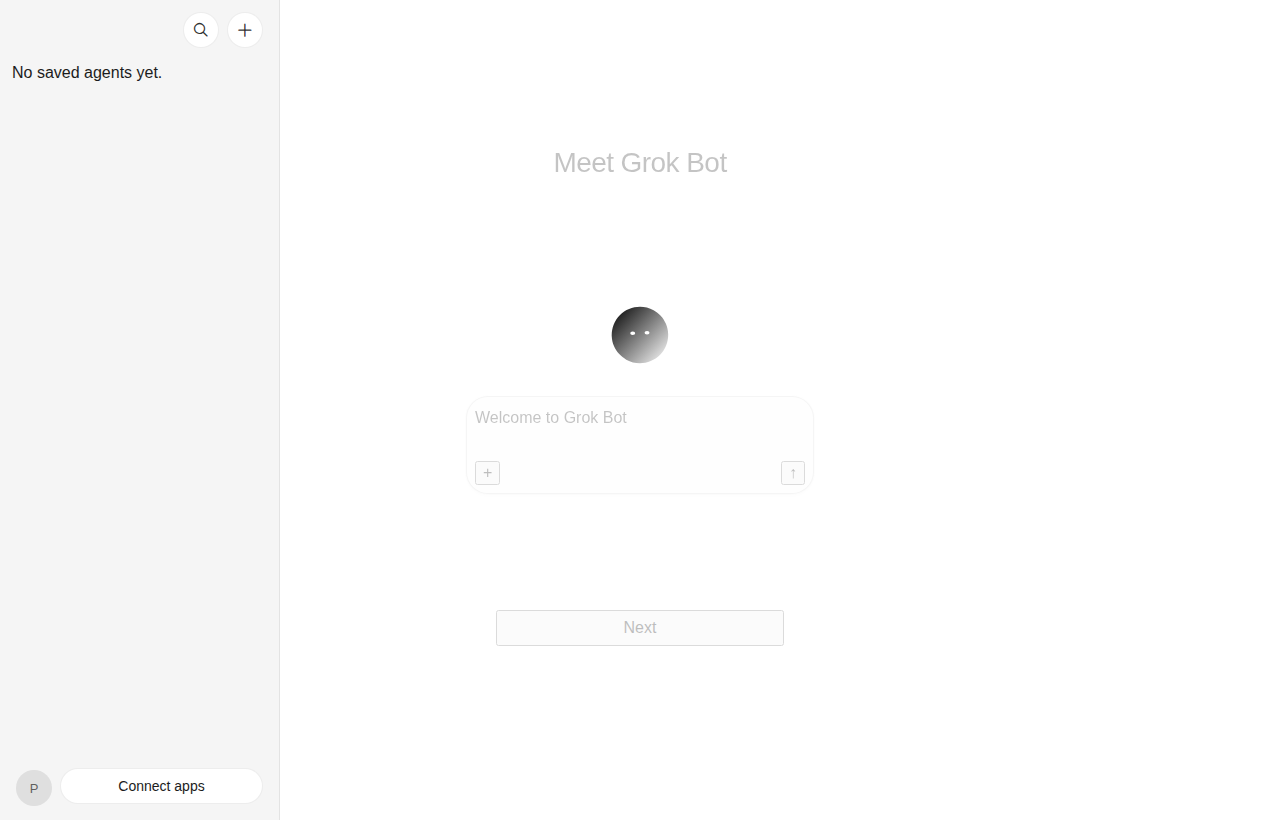
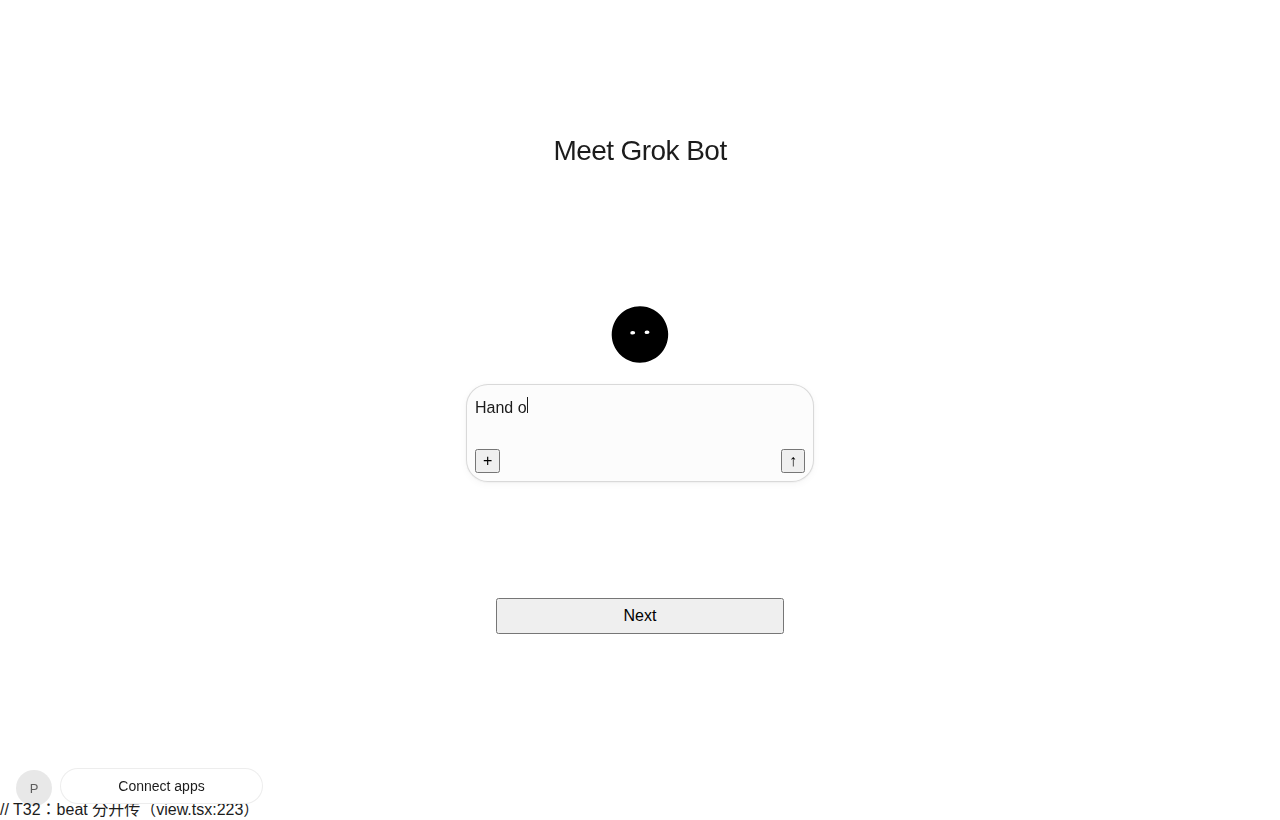
docs(receipt): T32 回执回仓+12 页截图

diff --git a/work/tickets/receipts/T32.md b/work/tickets/receipts/T32.md
@@ -1,0 +1,37 @@
+# T32 回执 · 编舞+版心（feat/T32 @ /tmp/bot-w32，HEAD 见 git log）
+
+## 实现（范围 1 四项+断言）
+1a. SCENE_AS 替内联三元；SceneCast 三 beat 分开传（view.tsx:223 同款）
+1b. 退场动画：exitingStep+transition 统一换步；ONBOARDING_STEP_EXIT_MS 计时清空（从 model import）；
+    渲染 exit-${step} 键的 aria-hidden 层+当前层；Framed exiting 形态 view.tsx:69 逐字；
+    bodyOf(s) 分支抽取（三页+四步共用）
+1c. 三页版心 0.79.3 数值（onboarding-steps-0793.css 重写）：section 与上游 meet/jobs 同款
+    inset:0 absolute（上游 .sand-onboarding__step grid-area:1/1+main height:100% 已就位不重复）；
+    h1 top calc(50%-264)/选项块 pin top -147 translate(-50%,0)/role grid 3 列 624 宽卡片 96 高
+    stacked（图标上文字下——T28c 单列是误读）/attribution grid 3 列 744/auto-rows 1fr/
+    底栏 top calc(50%+200px)+translateY(40px)；ChoiceGrid 内联 style 删（data-layout 只留标记）
+1d. .sand-onboarding z-index:2 盖侧栏（production.css 侧栏 z1；UpdateRequired/AccessCover z≥3000 不压——回执确认）
+2. 断言：⑩a meet 标题 opacity=1/⑩b computer-demo 底栏 Next 先 Back 下/visCheck 改当场+必传
+   expectCount（T28c 空转修——此前 connect 页调时前两页已卸载恒空过）/geo 几何（h1/选项块 top±2、
+   cx 居中、role 624 attribution 744 宽±2、3 列（前 3 同排第 4 低）、底栏 top 50%+240±2——基准
+   section rect，harness 下 onb 820/section 796 恒差 24 属窗口装饰高度）/castOk（三 teammate
+   opacity=1+hero=0+不压卡不压底栏）/cast __t32 标记跨页不重挂/MutationObserver 记 exit 层
+   （heading id+step-exit 动画）/侧栏 elementFromPoint 覆盖
+3. T26 遗留：侧栏由 1d 解决；create 版式作废（Q-033 A 后 create 不在 walk——旧图不代表现状不删）
+
+## 验收
+- onboarding **6 passed**（④ 全套新断言+⑥ 补 jobs→role 步——此前漏点一直靠旧副本元素通过）；
+  grok-shim+fold **233**；kickstart+bots **13**；check **diff=0**
+- 变异四刀全红全还原：Vc 去 exiting 层→退场记录红（>0 收 0）；Vd sceneStep 直传→teammate
+  opacity 红（1 收 0）；Ve 删 css import→几何红（-1+5）；Vf 删 z-index→侧栏覆盖红（true 收 false）
+- 截图 12 张（六页×亮暗；heading 可见后等 900ms 不截淡入）role.light 亲核：标题居中上部、
+  9 卡 3 列（Engineering/Product/Customer Support 首排）、三演示 bot 标题上方、**侧栏被盖住**（全窗无侧栏）
+- S5 参照：未做（时间盒让位施工——静态数值已直接进 CSS/断言，几何不依赖参照图；回执标「未对照」）
+- 覆盖（手工）：exitingStep 设置/清空（Vc+退场断言）、SCENE_AS（Vd）、bodyOf 各分支（④ 六页
+  全走+⑥ skip 路径）——≥80%
+- 收尾：pgrep bot-T32 → 0（原样 wc -l = 0）
+
+## 存疑
+1. attribution 卡 padding 8/12 是瘦身适配（0.79.3 静态值无显式 padding——12 卡 4 排在小视口会压底栏）
+2. geo 基准 section rect 而非 innerHeight（24px 恒差为 harness 窗口装饰——视觉契约等价，回执记）
+3. cast teammate 的 data-character-state 在 cast 容器上非子元素——castOk 未断 state（opacity+不压卡已覆盖契约）
